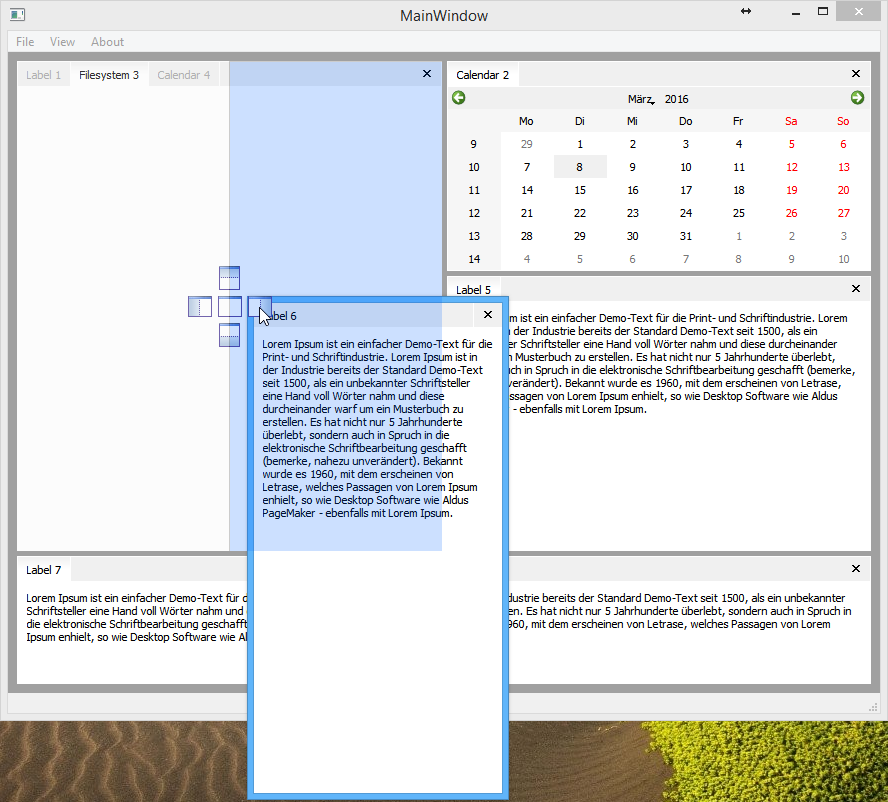
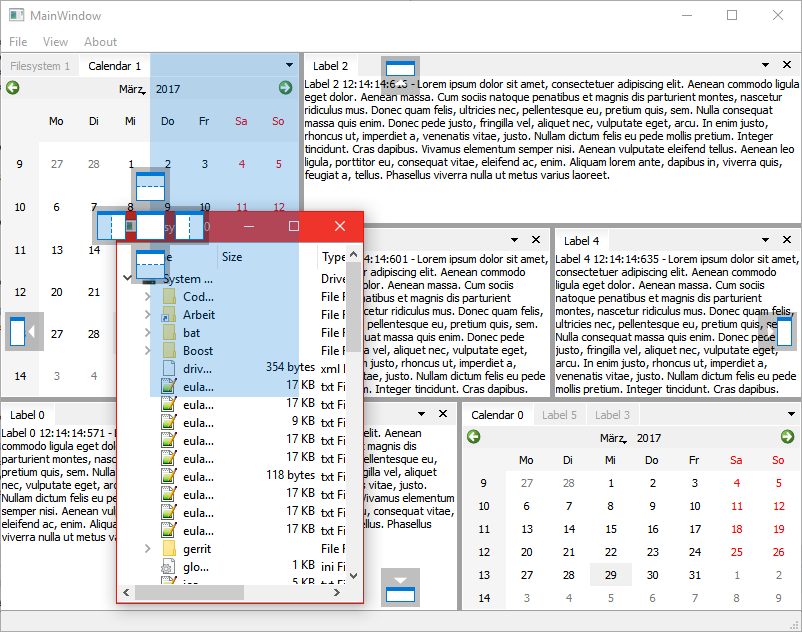
Removed external dependencies for build, fixed build system, updated preview images to reflect the current state of the library

diff --git a/demo/mainwindow.cpp b/demo/mainwindow.cpp
@@ -2,7 +2,6 @@
 
 #include "ui_mainwindow.h"
 
-#include <iostream>
 
 #include <QTime>
 #include <QLabel>
@@ -14,15 +13,13 @@
 #include <QBoxLayout>
 #include <QSettings>
 #include <QDockWidget>
+#include <QDebug>
 
 #include "DockManager.h"
 #include "DockWidget.h"
 #include "DockAreaWidget.h"
 
 
-///////////////////////////////////////////////////////////////////////
-
-static int CONTENT_COUNT = 0;
 
 
 static ads::CDockWidget* createLongTextLabelDockWidget(QMenu* ViewMenu)
@@ -82,8 +79,6 @@ static ads::CDockWidget* createFileSystemTreeDockWidget(QMenu* ViewMenu)
 
 
 
-///////////////////////////////////////////////////////////////////////
-
 MainWindow::MainWindow(QWidget *parent) :
 	QMainWindow(parent),
 	ui(new Ui::MainWindow)
@@ -127,16 +122,16 @@ void MainWindow::createContent()
 
 void MainWindow::closeEvent(QCloseEvent* event)
 {
-	QSettings Settings("Settings.ini", QSettings::IniFormat);
+	/*QSettings Settings("Settings.ini", QSettings::IniFormat);
 	Settings.setValue("mainWindow/Geometry", saveGeometry());
-	Settings.setValue("mainWindow/DockingState", m_DockManager->saveState());
+	Settings.setValue("mainWindow/DockingState", m_DockManager->saveState());*/
 	QMainWindow::closeEvent(event);
 }
 
 
 void MainWindow::on_actionSaveState_triggered(bool)
 {
-	std::cout << "MainWindow::on_actionSaveState_triggered" << std::endl;
+	qDebug() << "MainWindow::on_actionSaveState_triggered";
 	QSettings Settings("Settings.ini", QSettings::IniFormat);
 	Settings.setValue("mainWindow/Geometry", saveGeometry());
 	Settings.setValue("mainWindow/DockingState", m_DockManager->saveState());
@@ -145,7 +140,7 @@ void MainWindow::on_actionSaveState_triggered(bool)
 
 void MainWindow::on_actionRestoreState_triggered(bool)
 {
-	std::cout << "MainWindow::on_actionRestoreState_triggered" << std::endl;
+	qDebug() << "MainWindow::on_actionRestoreState_triggered";
 	QSettings Settings("Settings.ini", QSettings::IniFormat);
 	restoreGeometry(Settings.value("mainWindow/Geometry").toByteArray());
 	m_DockManager->restoreState(Settings.value("mainWindow/DockingState").toByteArray());

diff --git a/src/DockWidgetTitleBar.cpp b/src/DockWidgetTitleBar.cpp
@@ -112,7 +112,7 @@ struct DockWidgetTitleBarPrivate
 	 * Returns true, if floating has been started and false if floating
 	 * is not possible for any reason
 	 */
-	bool startFloating(const QPoint& GlobalPos);
+	bool startFloating();
 };
 // struct DockWidgetTitleBarPrivate
 
@@ -158,7 +158,7 @@ void DockWidgetTitleBarPrivate::moveTab(QMouseEvent* ev)
 
 
 //============================================================================
-bool DockWidgetTitleBarPrivate::startFloating(const QPoint& GlobalPos)
+bool DockWidgetTitleBarPrivate::startFloating()
 {
 	qDebug() << "isFloating " << DockWidget->dockContainer()->isFloating();
 	qDebug() << "areaCount " << DockWidget->dockContainer()->dockAreaCount();
@@ -187,7 +187,6 @@ bool DockWidgetTitleBarPrivate::startFloating(const QPoint& GlobalPos)
 		qDebug() << "DockWidgetTitleBarPrivate::startFloating DockArea";
 		// If section widget has only one content widget, we can move the complete
 		// dock area into floating widget
-		auto splitter = internal::findParent<QSplitter*>(DockArea);
 		FloatingWidget = new CFloatingDockContainer(DockArea);
 	}
 
@@ -292,7 +291,7 @@ void CDockWidgetTitleBar::mouseMoveEvent(QMouseEvent* ev)
     bool MouseInsideTitleArea = d->titleAreaGeometryContains(ev->globalPos());
     if (!MouseInsideTitleArea)
 	{
-    	d->startFloating(ev->globalPos());
+    	d->startFloating();
     	return;
 	}
     else if (d->DockArea->count() > 1

diff --git a/src/DockAreaWidget.cpp b/src/DockAreaWidget.cpp
@@ -374,7 +374,6 @@ void DockAreaWidgetPrivate::updateTabsMenu()
 	menu->clear();
 	for (int i = 0; i < ContentsLayout->count(); ++i)
 	{
-		CDockWidget* DockWidget = dockWidgetAt(i);
 		addTabsMenuEntry(dockWidgetAt(i), APPEND, menu);
 	}
 }
@@ -449,7 +448,6 @@ void CDockAreaWidget::insertDockWidget(int index, CDockWidget* DockWidget,
 	d->TabsLayout->insertWidget(index, TitleBar);
 	TitleBar->show();
 	connect(TitleBar, SIGNAL(clicked()), this, SLOT(onDockWidgetTitleClicked()));
-	connect(DockWidget, SIGNAL(viewToggled(bool)), this, SLOT(onDockWidgetViewToggled(bool)));
 	DockWidget->setProperty(INDEX_PROPERTY, index);
 	if (Activate)
 	{
@@ -469,7 +467,6 @@ void CDockAreaWidget::removeDockWidget(CDockWidget* DockWidget)
 	TitleBar->hide();
 	d->TabsLayout->removeWidget(TitleBar);
 	disconnect(TitleBar, SIGNAL(clicked()), this, SLOT(onDockWidgetTitleClicked()));
-	disconnect(DockWidget, SIGNAL(viewToggled(bool)), this, SLOT(onDockWidgetViewToggled(bool)));
 	setCurrentIndex(d->ContentsLayout->currentIndex());
 	d->updateTabsMenu();
 
@@ -704,13 +701,6 @@ void CDockAreaWidget::onTabsMenuActionTriggered(QAction* Action)
 void CDockAreaWidget::updateDockArea()
 {
 	d->updateTabBar();
-}
-
-
-//============================================================================
-void CDockAreaWidget::onDockWidgetViewToggled(bool Open)
-{
-	auto DockWidget = dynamic_cast<CDockWidget*>(sender());
 }
 
 

diff --git a/src/DockManager.cpp b/src/DockManager.cpp
@@ -154,12 +154,12 @@ bool DockManagerPrivate::restoreContainer(int Index, QDataStream& stream, bool T
 	if (Index >= Containers.count())
 	{
 		CFloatingDockContainer* FloatingWidget = new CFloatingDockContainer(_this);
-		return FloatingWidget->restoreState(stream, internal::Restore);
+		return FloatingWidget->restoreState(stream, Testing);
 	}
 	else
 	{
 		qDebug() << "d->Containers[i]->restoreState ";
-		return Containers[Index]->restoreState(stream, internal::Restore);
+		return Containers[Index]->restoreState(stream, Testing);
 	}
 }
 
@@ -201,8 +201,6 @@ bool DockManagerPrivate::restoreState(const QByteArray &state,  int version)
     // Delete remaining empty floating widgets
     int FloatingWidgetIndex = i - 1;
     int DeleteCount = FloatingWidgets.count() - FloatingWidgetIndex;
-    /*std::cout << "DeleteCount " << DeleteCount << " FloatingWidgets.count() "
-    	<< FloatingWidgets.count() << " FloatingWdgetIndex " << FloatingWidgetIndex << std::endl;*/
     for (int i = 0; i < DeleteCount; ++i)
     {
     	FloatingWidgets[FloatingWidgetIndex + i]->deleteLater();

diff --git a/src/DockContainerWidget.cpp b/src/DockContainerWidget.cpp
@@ -181,6 +181,7 @@ void DockContainerWidgetPrivate::dropIntoContainer(CFloatingDockContainer* Float
 		QLayoutItem* li = Layout->replaceWidget(Splitter, NewSplitter);
 		NewSplitter->addWidget(Splitter);
 		Splitter = NewSplitter;
+		delete li;
 	}
 
 	// Now we can insert the floating widget content into this container
@@ -555,6 +556,9 @@ void DockContainerWidgetPrivate::dumpRecursive(int level, QWidget* widget)
 		}
 		qDebug("%sDockArea", (const char*)buf);
 	}
+#else
+	Q_UNUSED(level);
+	Q_UNUSED(widget);
 #endif
 }
 
@@ -692,7 +696,7 @@ void CDockContainerWidget::addDockArea(CDockAreaWidget* DockAreaWidget,
 		Container->removeDockArea(DockAreaWidget);
 	}
 
-	d->addDockArea(DockAreaWidget);
+	d->addDockArea(DockAreaWidget, area);
 }
 
 

diff --git a/src/FloatingDockContainer.cpp b/src/FloatingDockContainer.cpp
@@ -331,6 +331,7 @@ bool CFloatingDockContainer::event(QEvent *e)
 //============================================================================
 bool CFloatingDockContainer::eventFilter(QObject *watched, QEvent *event)
 {
+	Q_UNUSED(watched);
 	if (event->type() == QEvent::MouseButtonRelease && d->DraggingActive)
 	{
 		qDebug() << "FloatingWidget::eventFilter QEvent::MouseButtonRelease";
@@ -389,6 +390,7 @@ void CFloatingDockContainer::onDockAreasAddedOrRemoved()
 //============================================================================
 void CFloatingDockContainer::onDockAreaCurrentChanged(int Index)
 {
+	Q_UNUSED(Index);
 	this->setWindowTitle(d->SingleDockArea->currentDockWidget()->windowTitle());
 }
 

diff --git a/src/DockAreaWidget.h b/src/DockAreaWidget.h
@@ -56,7 +56,6 @@ private slots:
 	void onDockWidgetTitleClicked();
 	void onTabsMenuActionTriggered(QAction* Action);
 	void onCloseButtonClicked();
-	void onDockWidgetViewToggled(bool Open);
 
 public:
 	/**
@@ -190,13 +189,6 @@ signals:
 	 * @param index
 	 */
 	void currentChanged(int index);
-
-	/**
-	 * This signal is emitted if the dock area is closed or opened.
-	 * The dock area will be closed, if all dock widgets in the dock area are
-	 * closed and will be opened, when the first dock widget is opened
-	 */
-	void viewToggled(bool Open);
 }; // class DockAreaWidget
 }
  // namespace ads

diff --git a/src/DockOverlay.cpp b/src/DockOverlay.cpp
@@ -356,6 +356,7 @@ void CDockOverlay::enableDropPreview(bool Enable)
 //============================================================================
 void CDockOverlay::paintEvent(QPaintEvent* event)
 {
+	Q_UNUSED(event);
 	// Draw rect based on location
 	if (!d->DropPreviewEnabled)
 	{
